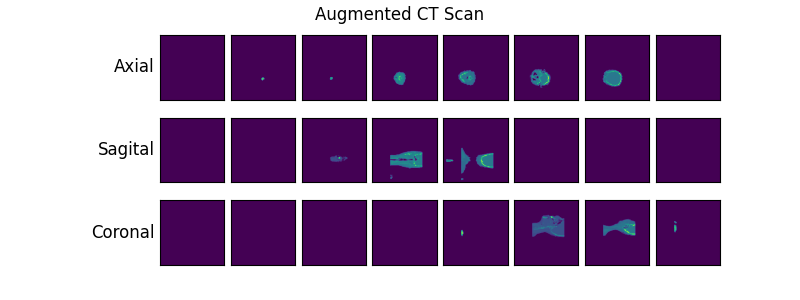
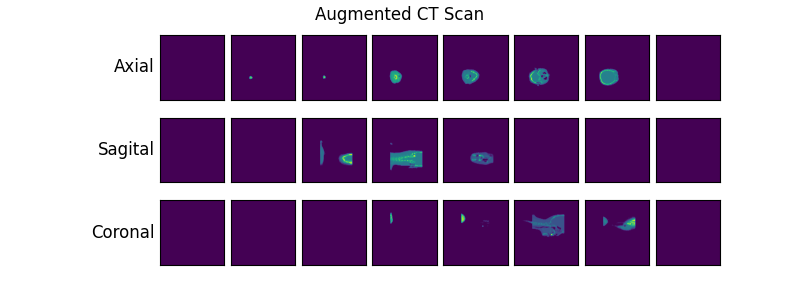
Added monai

diff --git a/src/data/augmentation.py b/src/data/augmentation.py
@@ -1,5 +1,6 @@
 import torch
-from torchvision.transforms.functional import rotate
+from monai.transforms import Rotate
+import numpy as np
 
 class Augment(torch.nn.Module):
     def __init__(self, seed):
@@ -8,18 +9,14 @@ class Augment(torch.nn.Module):
 
     def augment_features(self, feat):
         # Rotations
-        rotations = [0, 40, 80, 120, 160, 200, 240, 280, 320]
+        rotations = torch.arange(0, 360, 40) * np.pi / 180     
         rot = rotations[torch.randint(0, len(rotations), (1,))]
-        self.rot = rot
+        r = Rotate((0, 0, rot), keep_size=True)
+        
+        for feature in range(feat.shape[-1]):
+            feat[:, :, :, :, feature] = r(feat[:, :, :, :, feature])
 
-        feat = torch.transpose(feat, 0, 3)
-        (_, _, _, batch_size, feature_size) = feat.shape
-
-        for feature in range(feature_size):
-            for sample in range(batch_size):
-                feat[:, :, :, sample, feature] = rotate(feat[:, :, :, sample, feature], rot)
-
-        feat = torch.transpose(feat, 0, 3)
+        self.r = r
 
         # Translations
         shifts = torch.randint(-20, 21, (2,)).int()
@@ -35,13 +32,7 @@ class Augment(torch.nn.Module):
 
     def augment_dose(self, dose):
         # Rotations
-        dose = torch.transpose(dose, 0, 3)
-        (_, _, _, batch_size) = dose.shape
-
-        for sample in range(batch_size):
-            dose[:, :, :, sample] = rotate(dose[:, :, :, sample], self.rot)
-
-        dose = torch.transpose(dose, 0, 3)
+        dose = self.r(dose)
 
         # Translations
         dose = torch.roll(dose, shifts=self.shifts.tolist(), dims=(1, 2))
